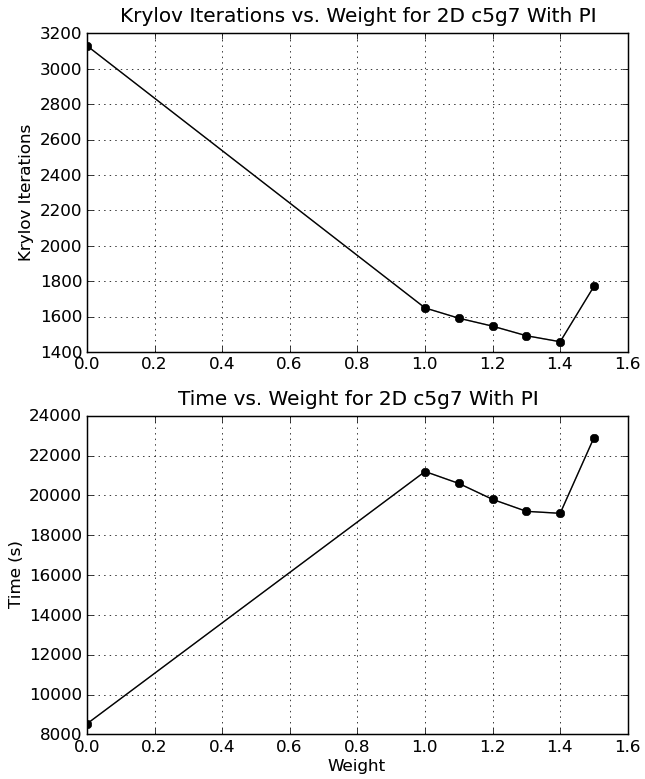
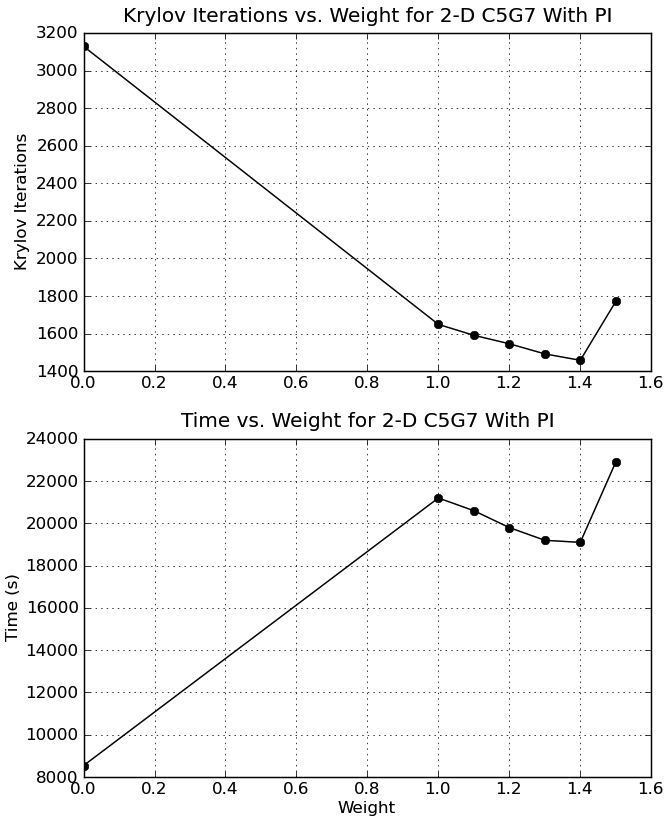
missed 2d c5g7 figure. Commented out some stuff in conclusion until it's edited

diff --git a/conclusion.tex b/conclusion.tex
@@ -49,15 +49,15 @@ Despite the clear theoretical edge RQI has over other methods, it has never been
 
 \section{Multigrid in Energy}
 
-Another potential way to reduce the time to solution for a given calculation is by reducing the number of iterations needed for convergence through preconditioning. If the savings from a lower iteration count is more than cost of the extra work done in making and applying the preconditioner, the result is a faster code. 
+%Another potential way to reduce the time to solution for a given calculation is by reducing the number of iterations needed for convergence through preconditioning. If the savings from a lower iteration count is more than cost of the extra work done in making and applying the preconditioner, the result is a faster code. 
 
-Two classes of preconditioners are proposed. The first is a multilevel energy preconditioner. Iterative methods reduce oscillatory error effectively, but not smooth error. If the transport equation is restricted to coarser energy grids, the error modes that appeared smooth on the fine grid become oscillatory. An iterative scheme can be applied on the coarse grids to reduce the error components that appear oscillatory on these grids. Finally, the problem can be prolongated back to the fine energy grid where the troublesome error modes have now been removed. 
+%Two classes of preconditioners are proposed. The first is a multilevel energy preconditioner. Iterative methods reduce oscillatory error effectively, but not smooth error. If the transport equation is restricted to coarser energy grids, the error modes that appeared smooth on the fine grid become oscillatory. An iterative scheme can be applied on the coarse grids to reduce the error components that appear oscillatory on these grids. Finally, the problem can be prolongated back to the fine energy grid where the troublesome error modes have now been removed. 
 
-A multilevel method has never been applied to the energy portion of phase space for the neutron transport problem before. The smoother that will be used for the multilevel energy preconditioner will be either Jacobi or successive over relaxation. The new preconditioner will also take advantage of the energy set decomposition such that it can be parallelized. It will be tested on problems with many energy groups to provide a wide range of grid and set combinations. 
+%A multilevel method has never been applied to the energy portion of phase space for the neutron transport problem before. The smoother that will be used for the multilevel energy preconditioner will be either Jacobi or successive over relaxation. The new preconditioner will also take advantage of the energy set decomposition such that it can be parallelized. It will be tested on problems with many energy groups to provide a wide range of grid and set combinations. 
 
-The intention is that $\ve{M}^{-1}$ will be sufficiently close to $\ve{A}^{-1}$ to provide acceleration. It will be fairly inexpensive to form $\ve{M}^{-1}$. This preconditioner will also be parallelized. The shifted scattering preconditioner will be tested on criticality problems that are traditionally difficult for \Sn methods to solve. Because the shifted scattering matrix is new, the preconditioner is also  new.
+%The intention is that $\ve{M}^{-1}$ will be sufficiently close to $\ve{A}^{-1}$ to provide acceleration. It will be fairly inexpensive to form $\ve{M}^{-1}$. This preconditioner will also be parallelized. The shifted scattering preconditioner will be tested on criticality problems that are traditionally difficult for \Sn methods to solve. Because the shifted scattering matrix is new, the preconditioner is also  new.
 
-Both preconditioners will be used on a toy problem for verification. They will also be applied to a large scale real PWR problem to investigate their influence on problems of interest. One of the goals of this research is to categorize which types of problems benefit from which preconditioners. An important and related area of research will be the tradeoff between the cost of construction and application of the preconditioners, and the change in solution time as a function of parallelization. 
+%Both preconditioners will be used on a toy problem for verification. They will also be applied to a large scale real PWR problem to investigate their influence on problems of interest. One of the goals of this research is to categorize which types of problems benefit from which preconditioners. An important and related area of research will be the tradeoff between the cost of construction and application of the preconditioners, and the change in solution time as a function of parallelization. 
 
 
 This means the preconditioner may be useful for many problems types. The preconditioner seemed to always work well for fixed source problems and with power iteration. For tough problems of either type the preconditioner could prove to be very beneficial once it has been optimized.  
